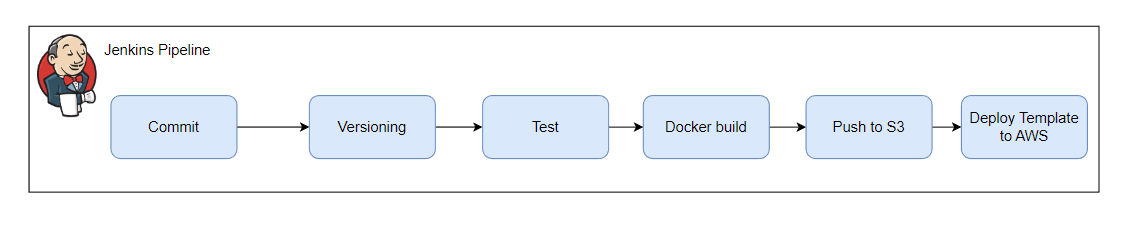
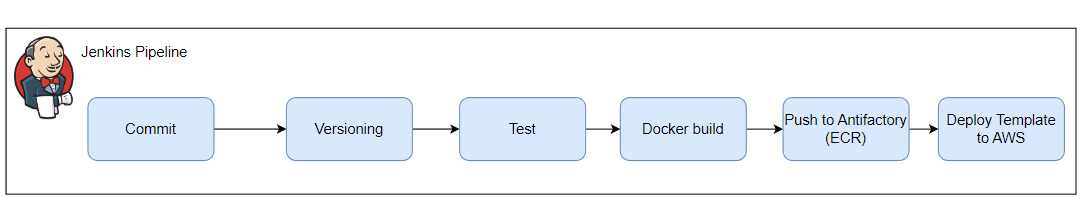
update README.md - update description

Changed region(s): [[0.0, 0.0849, 0.9973, 0.8491], [0.0, 0.9057, 0.9973, 0.934], [0.4675, 0.5094, 0.4986, 0.6509]]

diff --git a/README.md b/README.md
@@ -1,13 +1,24 @@
 # stress-tracking-api
+The goal of this project is to assess development skills suitable for a backend engineer position. It tests knowledge and proficiency with software design, unit testing and web technologies like HTTP and REST.
 
+```
+Project Name: OOCA Stress Tracking API
+Project Goal: Create a small web-app for tracking user's stress level.
+Technology: Nodejs + TypeScript with any framework and technologies you like.
+Deliverables: The solution can be deployed to anywhere like Heroku, Netify,GCP or even Firebase.
+```
+## Description
 Users can use the mobile/web app to upload their stress level (0-5) and image (optional). The mobile/web app uses REST
 API to upload it. Every uploaded images should be resized for more suitable to display on mobile/web. The mobile/web app
 also has a feed that shows all stress level tracked by the user with associated image.
 
 **Task**: Build the API described above. Write unit/e2e tests for each components.
+
 - [1. Infrastructure](#1-infrastructure)
   * [AWS Diagrams](#aws-diagrams)
   * [Jenkins Server](#jenkins-server)
+    + [Jenkins pipeline for Prerequisite resources](#jenkins-pipeline-for-prerequisite-resources)
+    + [Jenkins pipeline for Application](#jenkins-pipeline-for-application)
   * [Database Diagram](#database-diagram)
 - [2. Development](#2-development)
   * [API Endpoint](#api-endpoint)
@@ -16,23 +27,33 @@ also has a feed that shows all stress level tracked by the user with associated 
   * [Repository Folder Structure](#repository-folder-structure)
     + [Infrastructure Repo](#infrastructure-repo)
     + [API Stress Tracking Repo](#api-stress-tracking-repo)
-  * [3. Deployment process](#3-deployment-process)
-    + [Jenkins pipeline for Prerequisite resources](#jenkins-pipeline-for-prerequisite-resources)
-    + [Jenkins pipeline for Dockerfile](#jenkins-pipeline-for-dockerfile)
 
 # 1. Infrastructure
 
 ## AWS Diagrams
+This requirements to create and deploy new application to tracking user's stress level. So I'm decided to use AWS Elastic Beantalk to deploy and deliveriles our application.AWS Elastic Beanstalk enables you to manage all of the resources that run your application also including Load Balancer, Autoscaling and Database connection support.
+
+Use an Amazon Relational Database Service (Amazon RDS) DB instance to store `tracking` and `user` data gathered and modified by application. The database can be attached to your environment, created and managed externally. Elastic Beanstalk provides connection information for attached DB instances in environment properties
+
+We will save image to S3 Bucket, and save image metadata in `Tracking` table following `imageBucket` and `imagePath`.
+
 ![aws_infras.png](Image/aws_infras.png)
 
 ## Jenkins Server
 
 `On-premise or Virtural machine on Cloud`
+### Jenkins pipeline for Prerequisite resources
+Before start deploy and deliveries our application to Cloud environment, we need to deploy some prerequisite resources including: VPC, S3, RDS - AuroraDB, ECR
 
-## Database Diagram
-`
-  User 
-`
+![prerequisite_resources_cicd.png](Image/prerequisite_resources_cicd.png)
+
+### Jenkins pipeline for Application
+The application will deploy to Cloud Providers following stages on this pipeline:
+![jenkins_service_cicd.png](Image/jenkins_service_cicd.png)
+
+## Database Tables
+
+- User
 
 | Parameter | Type     | Description |
 |:----------|:---------|:------------|
@@ -40,9 +61,7 @@ also has a feed that shows all stress level tracked by the user with associated 
 | `email`   | `string` | User email  |
 
 
-`
-Tracking
-`
+- Tracking
 
 | Parameter     | Type       | Description                                 |
 |:--------------|:-----------|:--------------------------------------------|
@@ -123,9 +142,5 @@ Tracking
 | properties/uat_params.json         | uat environment  infrastructure properties                                                                                                            |
 | properties/prod_params.json        | prod environment infrastructure  properties                                                                                                           |
 
-## 3. Deployment process
 
-### Jenkins pipeline for Prerequisite resources
-![prerequisite_resources_cicd.png](Image/prerequisite_resources_cicd.png)
-### Jenkins pipeline for Dockerfile
-![jenkins_service_cicd.png](Image/jenkins_service_cicd.png)
+`Diagrams URL: https://drive.google.com/file/d/1nSHpk3z1ZR68G46OJ4MI6v_UZKJPmzg4/view?usp=sharing`
